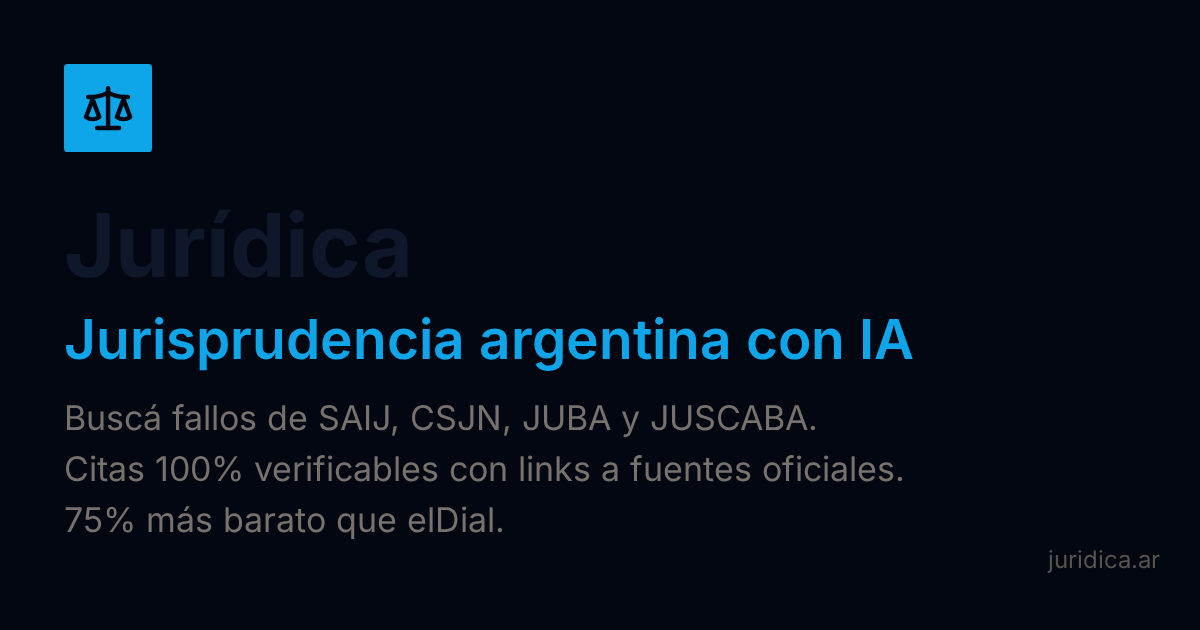
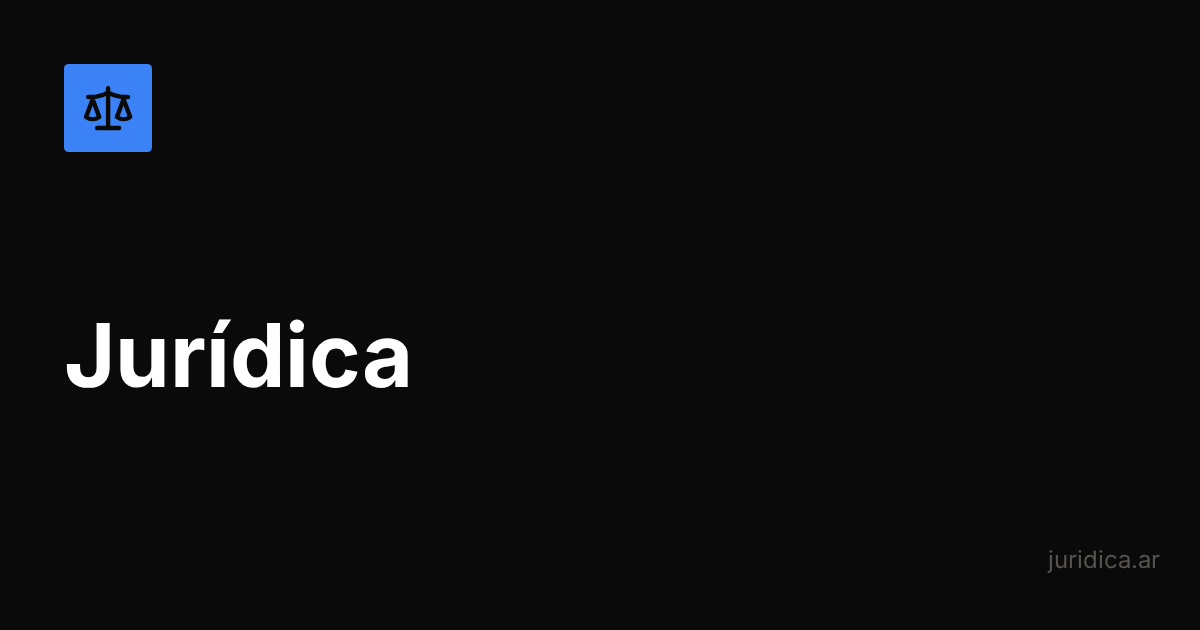
feat: practicalUse section in AI report + fix OG image (white title, no elDial)

diff --git a/app/pages/busqueda.vue b/app/pages/busqueda.vue
@@ -186,6 +186,25 @@
                   </li>
                 </ul>
               </div>
+
+              <div v-if="summaryView.practicalUse?.length">
+                <p class="font-medium text-highlighted mb-1">
+                  Por qué este análisis importa
+                </p>
+                <ul class="space-y-2 text-toned">
+                  <li
+                    v-for="(item, idx) in summaryView.practicalUse"
+                    :key="`pu-${idx}`"
+                    class="flex gap-2"
+                  >
+                    <UIcon
+                      name="i-lucide-check"
+                      class="text-green-600 mt-0.5 shrink-0"
+                    />
+                    {{ item }}
+                  </li>
+                </ul>
+              </div>
             </div>
 
             <!-- Initial state: Show button to analyze -->
@@ -409,6 +428,7 @@ interface ReportSummary {
   arguments?: ReportArgument[]
   risks?: string[]
   recommendations?: string[]
+  practicalUse?: string[]
 }
 
 const route = useRoute()
@@ -475,6 +495,7 @@ function normalizeSummaryPayload(raw: ReportSummary | null): ReportSummary {
           arguments: Array.isArray(parsed.arguments) ? parsed.arguments as ReportArgument[] : raw.arguments,
           risks: asStringArray(parsed.risks || raw.risks),
           recommendations: asStringArray(parsed.recommendations || raw.recommendations)
+          practicalUse: asStringArray(parsed.practicalUse || raw.practicalUse)
         }
       } catch {
         // JSON was malformed/truncated — strip it from display
@@ -490,6 +511,7 @@ function normalizeSummaryPayload(raw: ReportSummary | null): ReportSummary {
       arguments: Array.isArray(raw.arguments) ? raw.arguments : [],
       risks: asStringArray(raw.risks),
       recommendations: asStringArray(raw.recommendations)
+    practicalUse: asStringArray(raw.practicalUse)
     }
   }
 
@@ -500,6 +522,7 @@ function normalizeSummaryPayload(raw: ReportSummary | null): ReportSummary {
     arguments: Array.isArray(raw.arguments) ? raw.arguments : [],
     risks: asStringArray(raw.risks),
     recommendations: asStringArray(raw.recommendations)
+    practicalUse: asStringArray(raw.practicalUse)
   }
 }
 

diff --git a/server/api/reports/generate.post.ts b/server/api/reports/generate.post.ts
@@ -67,6 +67,7 @@ Devolvé SOLO JSON válido con este formato:
   ],
   "risks": ["string"],
   "recommendations": ["string"],
+  "practicalUse": ["string - por qué este análisis le importa al abogado en la práctica"],
   "citations": [
     {
       "id": "uuid",
@@ -210,6 +211,7 @@ function repairTruncatedJson(
     recommendations: extractArray('recommendations').length
       ? extractArray('recommendations')
       : ['Regenerar reporte con los mismos documentos.'],
+    practicalUse: extractArray('practicalUse'),
     citations: sourceResults.slice(0, 8).map(r => ({
       id: r.uuid,
       titulo: r.titulo || r.caratula || r.uuid,
